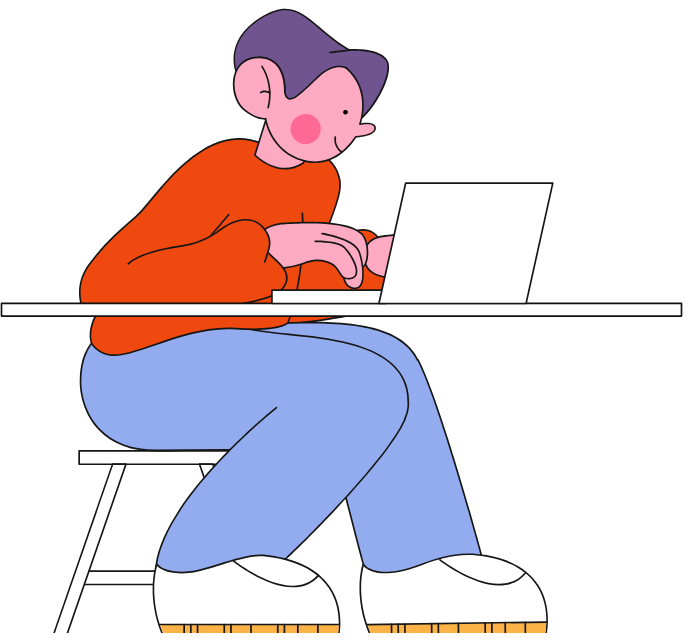
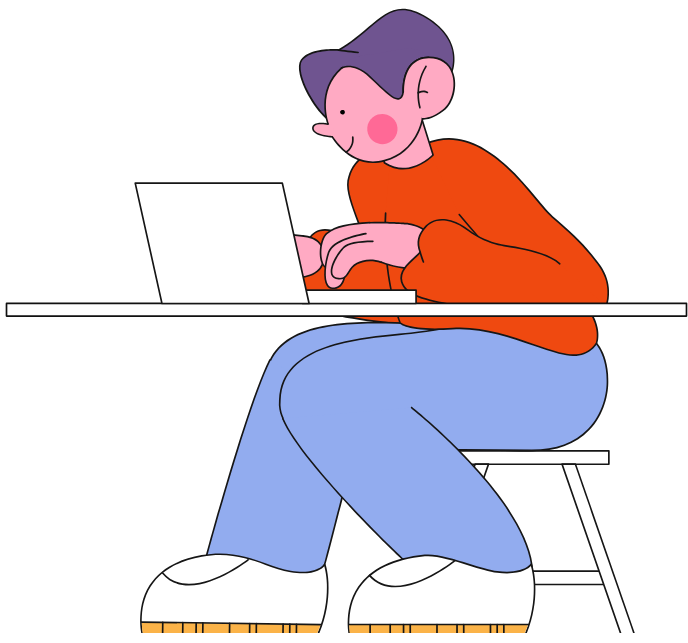
Serve section moving image complete

diff --git a/frontend/src/pages/Landing/Landing.jsx b/frontend/src/pages/Landing/Landing.jsx
@@ -1,5 +1,4 @@
-import React from 'react'
-import { useRef } from 'react'
+import React, { useRef, useState, useEffect } from 'react'
 import './Landing.css'
 import laptopLanding from '../../assets/laptopLanding.png'
 import dash1Landing from '../../assets/dash1Landing.png'
@@ -10,23 +9,61 @@ import secondLanding from '../../assets/secondLanding.jpg'
 import thirdLanding from '../../assets/thirdLanding.jpg'
 import fourLanding from '../../assets/fourLanding.jpg'
 import participant from '../../assets/participantLanding.png'
+import participantFlipped from '../../assets/participantLandingFlipped.png'
 import organiser from '../../assets/organiserLanding.png'
-import { easeInOut, motion, useInView } from "motion/react"
+import organiserFlipped from '../../assets/organiserLandingFlipped.png'
+import { motion, useInView, useMotionValue, useTransform } from 'motion/react'
 
 
 const Landing = () => {
-  const aiJudgeRef = useRef()
+  // const [isParticipant, setIsParticipant] = useState(false)
+  const [imgPhase, setImgPhase] = useState("organiser");
+
+  const manageRef = useRef(null)
+  const manageInView = useInView(manageRef, {
+    amount: 0.5
+  })
+
+  const aiJudgeRef = useRef(null)
   const aiJudgeInView = useInView(aiJudgeRef, {
     amount: 0.5
   })
 
-  const example = {
-    width: 40,
-    backgroundColor: "var(--color-dark-blue)",
-    borderRadius: 5,
-    marginLeft: 150,
-    color: 'white'
+  const teamRef = useRef(null)
+  const teamInView = useInView(teamRef, {
+    amount: 0.5
+  })
+
+  const discoveredRef = useRef(null)
+  const discoveredInView = useInView(discoveredRef, {
+    amount: 0.5
+  })
+
+  let currentSection = "create"
+
+  if (discoveredInView) {
+    currentSection = "getDiscovered"
+  } else if (teamInView) {
+    currentSection = "teamUp"
+  } else if (aiJudgeInView) {
+    currentSection = "aiJudge"
   }
+
+  useEffect(() => {
+    const targetPhase =
+      currentSection === "create" || currentSection === "aiJudge"
+        ? "organiser"
+        : "participant";
+
+    if (targetPhase !== imgPhase) {
+      // swap mid-flip (half of the 1.2s transition), when the face is hidden
+      const timer = setTimeout(() => setImgPhase(targetPhase), 600);
+      return () => clearTimeout(timer);
+    }
+  }, [currentSection]);
+
+
+
 
   return (
     <>
@@ -88,7 +125,7 @@ const Landing = () => {
 
 
 
-        <div className='flex items-center mt-20 ml-10 w-230 create&manage'>
+        <div ref={manageRef} className='flex items-center mt-20 ml-10 w-230 create&manage'>
           <div className='w-99.75 h-66.25 bg-violet-400 leftImage'></div>
 
           <div className='ml-6 flex flex-col items-center rightTexts'>
@@ -132,7 +169,7 @@ const Landing = () => {
 
 
 
-        <div className='flex items-center mt-45 ml-10 w-230 teamUp'>
+        <div ref={teamRef} className='flex items-center mt-45 ml-10 w-230 teamUp'>
           <div className='w-99.75 h-66.25 bg-violet-400 leftImage'></div>
 
           <div className='ml-6 flex flex-col items-center rightTexts'>
@@ -152,7 +189,7 @@ const Landing = () => {
 
 
 
-        <div className='flex justify-end mt-45 mr-10 items-center h-auto w-auto getDiscovered'>
+        <div ref={discoveredRef} className='flex justify-end mt-45 mr-10 items-center h-auto w-auto getDiscovered'>
 
           <div className='mr-6 flex flex-col items-center'>
             <div className='bg-light-green/70 text-dark-green px-5 py-1 rounded-full text-4xl font-space font-bold '>
@@ -179,65 +216,186 @@ const Landing = () => {
 
 
 
+        {/* moving image: */}
 
-
-        <motion.div
+        {/* <motion.div
           className='absolute top-22 right-19 movingImg'
-          // initial={{
-          //   top: "88px",
-          //   right: "76px",
-          //   rotateY: 0
-          // }}
-          // animate={
-          //   aiJudgeInView
-          //   ? {
-          //     top: "520px",
-          //     right: "20px",
-          //     rotateY: "180"
-          //   }
-          //   : {
-          //     top: "88px",
-          //     right: "76px",
-          //     rotateY: 0
-          //   }
-          // }
           animate={
             aiJudgeInView
               ? {
                 x: -1060,
                 y: 430,
-                rotateY: 180,
               }
               : {
                 x: 0,
                 y: 0,
-                rotateY: 0,
               }
           }
           transition={{
             duration: 1.6,
             ease: easeInOut
           }}
-          style={{ transformStyle: "preserve-3d" }}
         >
           <div className='relative'>
-            <img src={organiser} alt="to an oraganiser" className='w-60' />
-            <div className='absolute top-70 left-4 font-antonio font-bold text-2xl italic bg-[#b7c4ff] text-[#ffe5a1] rounded-full w-fit px-4 py-1'>to an Organiser</div>
+            <motion.img
+              src={organiser}
+              alt="to an oraganiser"
+              className='w-60'
+              animate={{
+                rotateY: aiJudgeInView ? 180 : 0
+              }}
+              transition={{
+                duration: 1.6,
+                ease: "easeInOut"
+              }}
+              style={{
+                transformStyle: "preserve-3d"
+              }}
+            />
+            <motion.div
+              className='absolute top-70 left-4 font-antonio font-bold text-2xl italic bg-[#b7c4ff] text-[#ffe5a1] rounded-full w-fit px-4 py-1'
+              animate={{
+                marginLeft: aiJudgeInView ? 30 : 0
+              }}
+            >to an Organiser</motion.div>
           </div>
-        </motion.div>
+        </motion.div> */}
 
 
-
-
-
-        <motion.div animate={{ rotate: 360 }} className='ml-150 mb-50 w-20 bg-pink-950 text-white'>what</motion.div>
-        <motion.div
-          style={example}
-          animate={{ rotate: 360 }}
-          transition={{ duration: 2 }}
+        {/* from gpt: */}
+        <div
+          className="absolute top-22 right-19 movingImg"
+          style={{ perspective: 1000 }}
         >
-          this
-        </motion.div>
+          <motion.div
+            className="relative w-60"
+            animate={
+              currentSection === "create"
+                ? {
+                  x: 0,
+                  y: 0,
+                }
+                : currentSection === "aiJudge"
+                  ? {
+                    x: -1060,
+                    y: 430,
+                  }
+                  : currentSection === "teamUp"
+                    ? {
+                      x: 0,
+                      y: 880,
+                    }
+                    : {
+                      x: -1060,
+                      y: 1350,
+                    }
+            }
+            transition={{
+              duration: 1.2,
+              ease: "easeInOut",
+            }}
+          >
+
+
+
+
+            {/* IMAGE */}
+            <motion.div
+              className="relative w-60 h-auto"
+              animate={{
+                rotateY:
+                  currentSection === "create"
+                    ? 0
+                    : currentSection === "aiJudge"
+                      ? 180
+                      : currentSection === "teamUp"
+                        ? 360
+                        : 540,
+              }}
+              transition={{
+                duration: 1.2,
+                ease: "easeInOut",
+              }}
+              style={{
+                transformStyle: "preserve-3d",
+              }}
+            >
+              {/* FRONT FACE — visible at rotateY 0 / 360 */}
+              {/* FRONT FACE */}
+              <img
+                src={imgPhase === "organiser" ? organiser : participant}
+                alt="front"
+                className="w-60"
+                style={{ backfaceVisibility: "hidden" }}
+              />
+
+              {/* BACK FACE */}
+              <img
+                src={imgPhase === "organiser" ? organiserFlipped : participantFlipped}
+                alt="back"
+                className="absolute top-0 left-0 w-60"
+                style={{
+                  transform: "rotateY(180deg)",
+                  backfaceVisibility: "hidden",
+                }}
+              />
+            </motion.div>
+
+
+
+
+
+            {/* LABEL */}
+            <motion.div
+              className="absolute font-antonio font-bold text-2xl italic bg-[#b7c4ff] text-[#ffe5a1] rounded-full w-fit px-4 py-1"
+              animate={{
+                opacity:
+                  currentSection === "teamUp" ||
+                    currentSection === "getDiscovered"
+                    ? 1
+                    : 1,
+                color:
+                  currentSection === "teamUp" || currentSection === "getDiscovered"
+                    ? "#b7c4ff"
+                    : "#ffe5a1",
+                backgroundColor:
+                  currentSection === "teamUp" || currentSection === "getDiscovered"
+                    ? "#ffe5a1"
+                    : "#b7c4ff",
+                left: 
+                  currentSection === "create"
+                    ? 12
+                    : currentSection === "aiJudge"
+                        ? 46
+                        : currentSection === "teamUp"
+                            ? 31
+                            : 46,
+                top:
+                  currentSection === "create"
+                    ? 280
+                    : currentSection === "aiJudge"
+                        ? 280
+                        : currentSection === "teamUp"
+                            ? 220
+                            : 220,
+              }}
+            >
+              {currentSection === "create" ||
+                currentSection === "aiJudge"
+                ? "to an Organiser"
+                : "to a Participant"}
+            </motion.div>
+
+          </motion.div>
+        </div>
+
+
+
+
+
+
+
+
 
       </div>
     </>

diff --git a/frontend/src/components/Button.jsx b/frontend/src/components/Button.jsx
@@ -17,7 +17,7 @@ const Button = ({
             ${py}
             ${px}
             ${textsize}
-            hover:shadow-sm hover:shadow-blue-950
+            hover:shadow-sm hover:shadow-blue-950 hover:bg-blue-800
             font-alef
             ${bg}
             text-bright-gray
